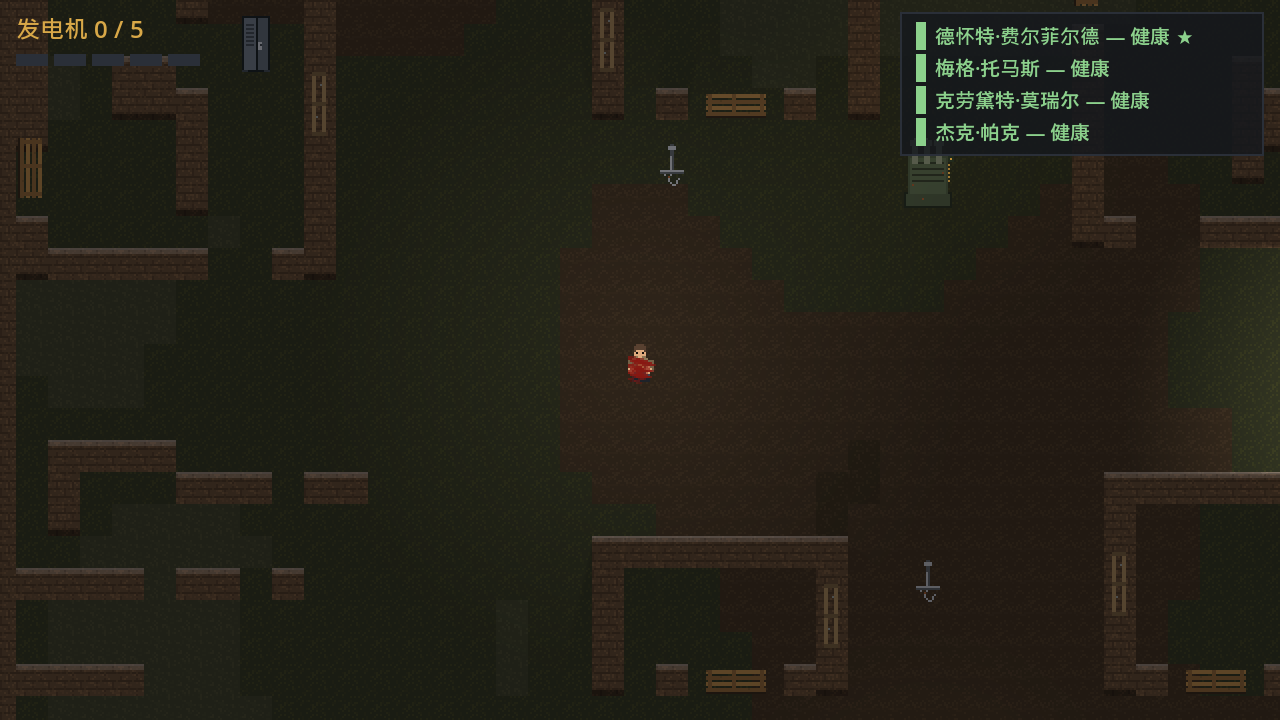
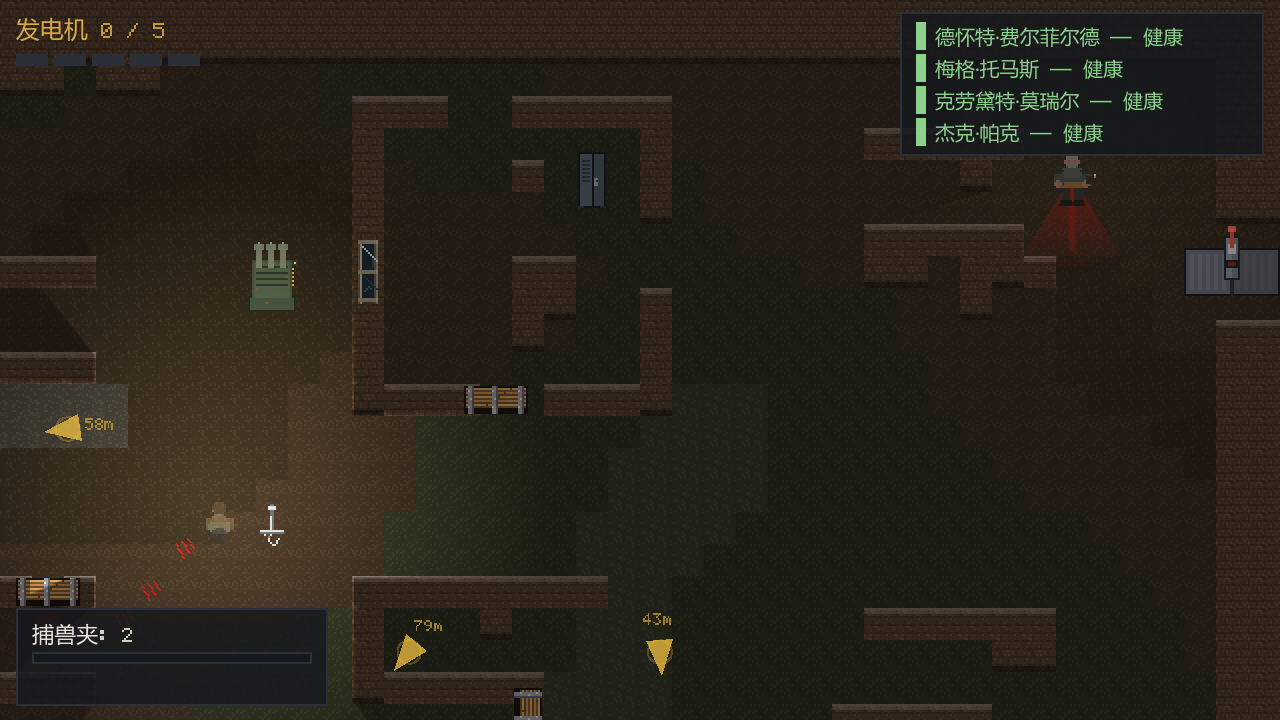
docs: refresh screenshots for the 3 m stain, Killer Instinct and the bitmap font

diff --git a/.workbuddy/memory/2026-09-25.md b/.workbuddy/memory/2026-09-25.md
@@ -140,3 +140,61 @@ Killer 暴露 `is_in_red_stain(pos)` 供 AI 查询。
 - bash heredoc 内容过长/含反引号会炸，**补丁一律写成 .py 文件再执行**。
 
 提交 `74c061c`（v1.4.0），exe 已重新导出（14:48）。
+
+## v1.6 迭代（同日 15:20）—— 手感、挂钩、字体
+
+陌老师报 6 项，全部完成。提交 `abb0e98` / `e2fec1b`，exe 已重新导出（97.9 MB）。
+
+### ① 红光 3 米
+`RED_STAIN_RANGE` 176px（11 米）→ 48px（3 米），角度 54° → 64°。
+11 米时红光会照亮小半个屏幕，**反而读不出"他在朝哪看"** —— 而这个光斑唯一的职责就是表达朝向。
+顺带把 AI 的"侧向脱离"触发条件补上"被杀手的视线锥罩住（10 米内）"，
+否则红光缩短后这条逻辑几乎不再触发。
+
+### ② 挂钩系统大修（根因：**两份状态**）
+旧实现里 `Hook.stage`（occupy 设为 FIRST 后再也不动）与 `Survivor.hook_stage`（由 `tick_hook` 驱动）并存，
+导致三个硬伤：
+- **STRUGGLE 阶段从钩子这侧永远到不了** → 钩子自己无法献祭任何人；
+- 阶段判定是 `hook_count == 1 ? FIRST : STRUGGLE` → **第三次挂钩只是又开一次挣扎**，不会立即献祭；
+- AI 挣扎值被 `maxf(struggle, 0.25 + ...)` **永久托底** → **挂在钩上的 bot 是不死的**，
+  整个献祭循环是装饰品。
+
+重构：阶段 / 计时器 / 挣扎条**全部归钩子所有**，逃生者只镜像。
+```
+第一次 → FIRST    60 秒救援窗口 + 一次 4% 自救（失败即作废，不可反复掷骰）
+第二次 → STRUGGLE 直接挣扎，每秒 -1/60，按住交互键 +0.019/秒
+第三次 → 立即献祭，无计时器
+同一人挂回同一钩子 → 额外推进一个阶段
+```
+AI 不提供挣扎输入且每秒 50% 概率失误扣 0.01 → **约 46 秒被献祭**（短到挂钩真有威胁，长到队友来得及救）。
+废弃 `Hook.used`（用一次就永久退休 → 长时间对局会**没钩子可用**），改 `last_victim`。
+
+### ③ 板/窗图标重画
+木板 = 五条板（受光顶边 + 阴影底边）+ 三条铆钉钢带 + 深色描边；
+破损板 = 断板 + 撕裂钢带 + 木屑；窗户 = 石砌窗框 + 窗台 + 两块玻璃 + 斜向高光 + 裂纹。
+16×16 UI 图标同步重画（原本木板图标和窗户图标几乎分不出来）。
+
+### ④ 杀手本能指针
+`KillerInstinct`（HUD 内的 Control，`_draw` 绘制）：屏幕边缘箭头指向
+「被挂钩的逃生者 > 已开地窖 > 通电大门 > 有进度的发电机」，附距离（米）；屏幕内改画菱形。
+**只有杀手可见** —— 逃生者的核心体验就是"不知道"。
+
+### ⑤ AI 不会脱手（根因：**决策层与状态机脱节**）
+`_decide()` 把 `goal_kind` 改成 `flee`，但状态机还停在 `interact`，
+而 **`InteractState` 根本不读 `move_input`** → 杀手贴脸了 bot 还在专心修机。
+修法：所有目标变更统一走 `_set_goal()`，它在目标真变化时先 `_release_interaction()` 再改目标。
+**"改主意"必须落到状态机上，光改意愿没用。**
+
+### ⑥ 像素位图字体
+`tools/gen_font.py`：95 个**手写** 5×7 点阵字形 → AngelCode BMFont（`.fnt` + PNG），
+Godot 原生导入为 `FontFile`。手写而非从系统 TTF 二值化（抗锯齿栅格化后形状发虚、依赖字体）。
+中文回退用 `SystemFont`（雅黑/黑体/Noto CJK…）。
+
+### 本轮新踩的坑（已入 skill）
+- **BMFont 的 `fallbacks` 会替换引擎隐式回退链**：指向 `ThemeDB.fallback_font` 时中文全部变豆腐块，
+  必须显式给 `SystemFont` 并列出 CJK 字体名。
+- **Godot 4 移除了 `Camera2D.unproject_position()`**（Godot 3 API）。世界→屏幕要改用
+  `get_viewport().get_canvas_transform() * world_pos`。
+- **`Interactable` 基类已有 `occupant: Node`**：子类不能再声明同名成员（Parse Error），
+  而且基类是弱类型 `Node`，直接调自定义方法会失败，必须用自己强类型字段。
+- 工具重放**会让同一个 commit 提交两次**：`git reset --soft HEAD~1 && git commit --amend --no-edit` 可合并。

diff --git a/README.md b/README.md
@@ -99,6 +99,12 @@ Clone it and you can reproduce the entire asset set byte for byte.
 
 ![Gameplay](docs/screenshot.png)
 
+*Killer's view. The small red pool at his feet is the 3 m stain; the yellow arrow at the screen edge is Killer Instinct, with the target's distance.*
+
+![Main menu](docs/menu.png)
+
+*Menus. Latin text is the hand-made 5x7 bitmap font; Chinese falls back to a system face.*
+
 ### Bloodweb progression
 - Every character owns a private ring of nodes: perks, items, add-ons and bloodpoint caches
 - Higher tiers are wider and more expensive; taking 60% of a tier unlocks the next one

diff --git a/README-zh.md b/README-zh.md
@@ -81,6 +81,12 @@
 
 ![游戏画面](docs/screenshot.png)
 
+*杀手视角。脚下那一小片红斑就是 3 米红光；屏幕边缘的黄色箭头是杀手本能，带目标距离。*
+
+![主菜单](docs/menu.png)
+
+*菜单。拉丁字母走自制的 5×7 像素位图字体，中文自动回退系统字体。*
+
 ### 血网成长系统
 - 每个角色一份独立的环状节点图，用血网点解锁技能 / 道具 / 配件 / 血点奖励
 - 层级越高环路越宽、消耗越高；解锁满 60% 即可晋升至下一层
